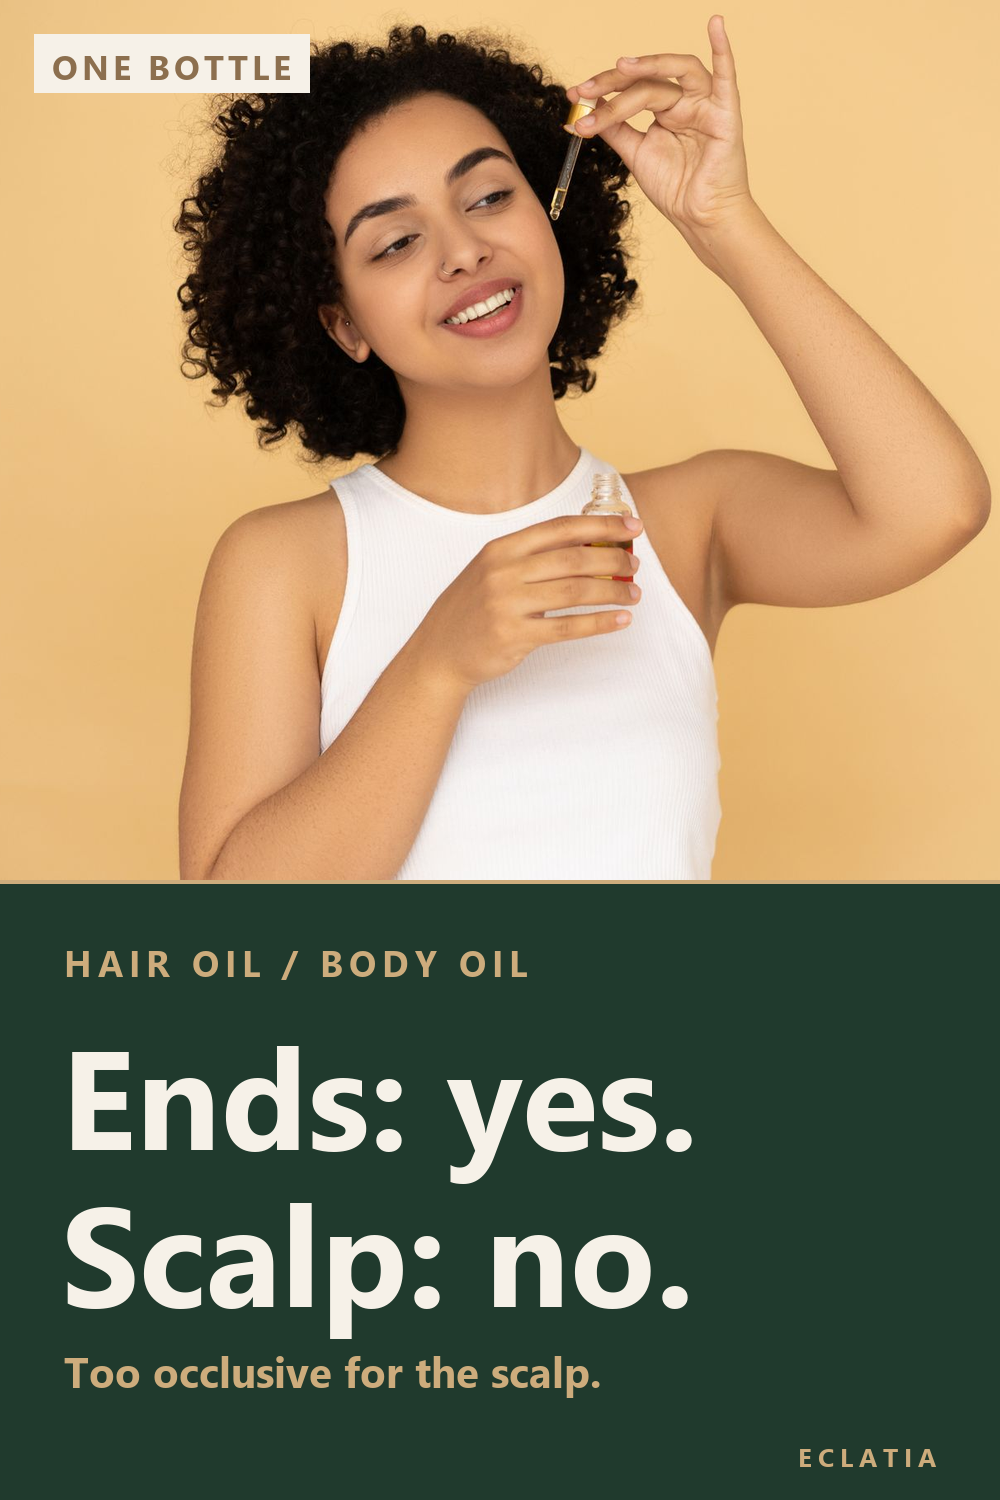
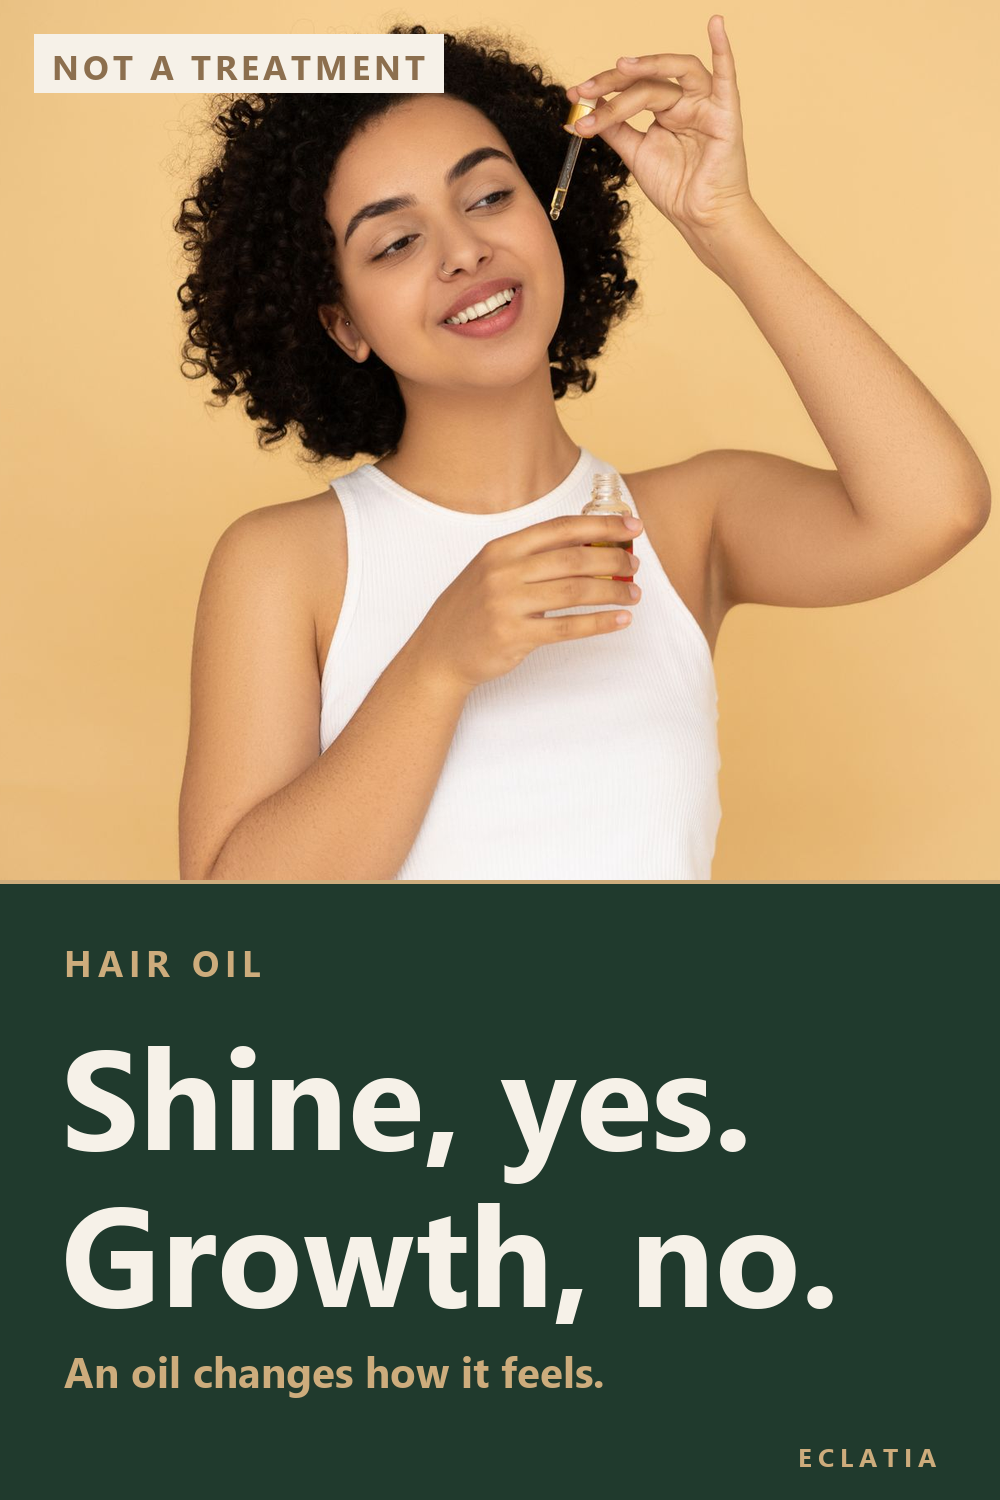
fix(P27): nouvel angle (huile = aspect, pas pousse) pour ne pas rejouer P08

diff --git a/scripts/make_pins_editorial.py b/scripts/make_pins_editorial.py
@@ -143,10 +143,10 @@ PINS = [
 # product whatever the label promises », « Not recommended: too occlusive ».
 # Photo : cheveux crepus, main qui tient un compte-gouttes au-dessus des
 # cheveux, fond jaune. Aucune marque lisible, main reelle.
-HAIR_BODY_OIL = dict(src="pex-6706840.jpg", chip="ONE BOTTLE",
-                     kicker="HAIR OIL / BODY OIL",
-                     lines=["Ends: yes.", "Scalp: no."],
-                     sub="Too occlusive for the scalp.", cx=0.45)
+HAIR_BODY_OIL = dict(src="pex-6706840.jpg", chip="NOT A TREATMENT",
+                     kicker="HAIR OIL",
+                     lines=["Shine, yes.", "Growth, no."],
+                     sub="An oil changes how it feels.", cx=0.45)
 
 # /comparisons/best-foundation-for-dry-skin/ — « the cream base has to go on
 # first », « a matte stick will never give you a dewy finish ».

diff --git a/docs/contenus-a-valider/pins/P27-hair-oil-vs-body-oil-a-publier.md b/docs/contenus-a-valider/pins/P27-hair-oil-vs-body-oil-a-publier.md
@@ -1,9 +1,16 @@
-# P27 — « Ends: yes. Scalp: no. » — À PUBLIER (18/11, 9 h)
+# P27 — « Shine, yes. Growth, no. » — À PUBLIER MAINTENANT (17/11)
 
-**Statut :** ⏳ prêt, à publier le **18/11/2026 à 9 h** (premier jour à 3 pins)
+**Statut :** ⏳ prêt, à publier le **17/11/2026** (tu as demandé de le sortir aujourd'hui)
 **Page de destination :** https://guide-beaute.pages.dev/guides/hair-oil-vs-body-oil/ (HTTP 200, aucun prix, tag Amazon présent)
-**Dernier pin vers cette page :** **aucun** — première utilisation de cette URL
-**Tableau :** `Hot Air Brush and Hair Styling Ideas` (seul tableau cheveux du compte)
+**Dernier pin vers cette page :** **07/11 (P08)** — même URL, semaine différente, donc la règle « jamais
+2 pins vers la même URL dans la même semaine » est respectée. C'est un **2ᵉ pin**.
+**Tableau :** `Hot Air Brush and Hair Styling Ideas`
+
+> ⚠ **Angle changé le 17/11.** La version initiale (« Ends: yes. / Scalp: no. ») rejouait P08 mot pour
+> mot : « what works on hair ends but not on the scalp, and the 3 cases where sharing one product goes
+> wrong ». Même page, même argument, 10 jours d'écart. Le pin est donc réécrit sur un angle que
+> **aucun pin n'a utilisé** : l'huile change l'aspect, pas la pousse. C'est la FAQ de la page, et ça
+> n'apparaît nulle part dans les 26 pins publiés.
 
 ---
 
@@ -12,14 +19,14 @@
 | Champ | Valeur |
 |---|---|
 | **Image** | `docs/contenus-a-valider/visuels/hair/pin-P27.jpg` — 1000 × 1500 (2:3) · copie PNG : `pin-P27.png` |
-| **Titre** | `Body Oil on Your Hair: Ends Yes, Scalp No` |
-| **Description** | `One bottle, two uses — but only when the listing says both. A body oil is built to leave a film on the skin; a hair oil is built to glide through the fibre. On the ends, a small amount is fine. On the scalp, a body oil is too occlusive and leaves a residue, and on fine hair it goes flat. The one product in this catalogue marketed for skin, hair and face is a solid shea butter, not an oil. What actually differs, and the 3 cases where sharing goes wrong. Some links on this page are affiliate links. #haircare #hairoil #bodyoil` |
+| **Titre** | `Hair Oil: Shine, Yes, Growth, No` |
+| **Description** | `An oil can change how hair looks and feels. It cannot change how fast it grows: nothing in this guide makes that claim. What a hair oil actually does is detangle, tame frizz, add shine and protect the ends. Where a body oil fails on hair: the scalp, too occlusive, and fine hair, which it flattens. The one product here marketed for skin, hair and face is a solid shea butter, not an oil. Some links on this page are affiliate links. #haircare #hairoil #hairtips` |
 | **Lien** | `https://guide-beaute.pages.dev/guides/hair-oil-vs-body-oil/?utm_source=Pinterest&utm_medium=organic&utm_campaign=P27` |
 | **Tableau** | `Hot Air Brush and Hair Styling Ideas` |
-| **Tagged topics** | Hair Care · Hair Oil · Beauty Tips |
-| **Alt** | `A woman with curly hair holds a glass dropper above her head, against a plain yellow background.` |
+| **Tagged topics** | Hair Care · Hair Oil · Hair Tips |
+| **Alt** | `A smiling woman with curly hair holds a glass dropper of oil above her head, a small bottle in her other hand, against a plain yellow background.` |
 | **Product tag** | `https://www.amazon.com/dp/B07RRDMMZM?tag=eclatia20-20` — Raw African Shea Butter, 16 oz |
-| **Programmation** | 18/11/2026 à **9 h** |
+| **Programmation** | immédiate |
 
 ---
 
@@ -27,37 +34,34 @@
 
 | Affirmation du pin | Présente sur la page ? |
 |---|---|
-| « One bottle, two uses » | ✅ intro : « One bottle on the shelf, two possible uses. » |
-| « only when the listing says both » | ✅ réponse : « The only reliable case for sharing is when the listing says both uses explicitly. » |
-| « a body oil leaves a film on the skin » | ✅ intro : « A body oil is built to leave a film on skin. » |
-| « a hair oil glides through the fibre » | ✅ intro : « A hair oil is built to glide through the fibre without weighing it down. » |
-| « Ends: yes » | ✅ FAQ : « On the ends, usually yes, in a small amount. » |
-| « Scalp: no » | ✅ « On the scalp, a body oil is the wrong product whatever the label promises. » |
-| « too occlusive for the scalp » | ✅ tableau, ligne *On the scalp* : « Not recommended: too occlusive » |
-| « on fine hair it goes flat » | ✅ « Fine hair plus a rich body oil. The result is flat, greasy hair… » |
-| « solid shea butter, not an oil » | ✅ « It is a solid butter, not an oil: raw, unrefined, degummed, ivory, in a 16 oz (473 ml) tub. » |
+| « an oil can change how hair looks and feels » | ✅ FAQ : « An oil can change how the hair feels and looks » |
+| « it cannot change how fast it grows » | ✅ « not how fast it grows » |
+| « nothing in this guide makes that claim » | ✅ « Nothing on this page makes that claim » |
+| « detangle, tame frizz, add shine, protect the ends » | ✅ tableau *Purpose* : « Detangle, tame frizz, shine, protect ends » |
+| « the scalp, too occlusive » | ✅ tableau : « Not recommended: too occlusive » |
+| « fine hair, which it flattens » | ✅ « fine hair, which it flattens » |
+| « solid shea butter, not an oil » | ✅ « It is a solid butter, not an oil » |
+| « marketed for skin, hair and face » | ✅ « marketed on its listing for skin, hair and face » |
 | Prix affiché | ❌ aucun montant |
-| Test / avis inventé | ❌ aucun |
-| Marque lisible sur le visuel | ❌ aucune |
-| Même URL dans la même semaine | ❌ non (première fois) |
+| Test / avis inventé | ❌ aucun — aucune promesse de pousse, justement |
+| Marque lisible sur le visuel | ❌ aucune (flacon et compte-gouttes sans étiquette) |
+| Même URL dans la même semaine | ❌ non (dernier pin le 07/11) |
 
 ### Le visuel
 
-Photo Pexels **6706840** (licence Pexels, source dans `docs/contenus-a-valider/sources/pex-6706840.jpg`).
-Cheveux crépus, main qui tient un compte-gouttes au-dessus de la tête, fond jaune uni. Mains réelles,
-anatomie correcte, aucun logo lisible. Thème **dark** (vert forêt + or).
+Photo Pexels **6706840** (source versionnée : `docs/contenus-a-valider/sources/pex-6706840.jpg`).
+Femme aux cheveux crépus, compte-gouttes au-dessus de la tête, visage entier, main réelle, aucun logo.
+Thème **dark** (vert forêt + or). Titre composé à **140 px**, chip `NOT A TREATMENT`.
 
-Titre composé à **140 px**, chip 34 px, kicker 36 px — la taille maximale de la charte.
+**Pourquoi ce visuel fonctionne avec cet angle :** le geste (une huile qu'on dépose) est exactement ce
+que le pin démonte — une huile qui soigne l'aspect, pas la pousse. Aucun packaging de marque n'est
+montré, donc aucune promesse de produit n'est suggérée par l'image.
 
-### Pourquoi cet angle
+### Place dans la journée
 
-C'est la question que les gens tapent vraiment (« can I use body oil on my hair »), et la page y
-répond par une règle nette : **extrémités oui, cuir chevelu non**. L'angle est binaire, donc lisible
-en une seconde dans le fil, et il ne répète aucun pin existant. Le pin du 09/11 (P06) portait sur
-l'huile corporelle ; celui-ci porte sur la **frontière** entre les deux produits.
-
-**Point d'honnêteté :** le flacon de la photo est anonyme (étiquette vierge). Il illustre le geste,
-pas un produit précis ; aucun flacon du catalogue n'est montré.
+P30 (lingettes) est sorti ce matin à **00 h 32**. P27 serait donc le **2ᵉ pin du 17/11** — autorisé
+(2/jour maximum avant le 18/11). En revanche, **le créneau de 9 h du 18/11 se retrouve vide** : il
+faudra le combler par un pin neuf, ou décaler P28 et P29.
 
 ---
 
@@ -65,5 +69,4 @@ pas un produit précis ; aucun flacon du catalogue n'est montré.
 
 - Ne jamais modifier le lien après publication.
 - Ne pas cliquer sur son propre pin.
-- Vérifier le tableau **avant** de cliquer : P24 était sorti dans le mauvais tableau.
-- 3 pins ce jour-là : 9 h (celui-ci), 13 h (P28), 19 h (P29). Jamais trois d'affilée.
+- Vérifier le tableau **avant** de cliquer sur Publier.
